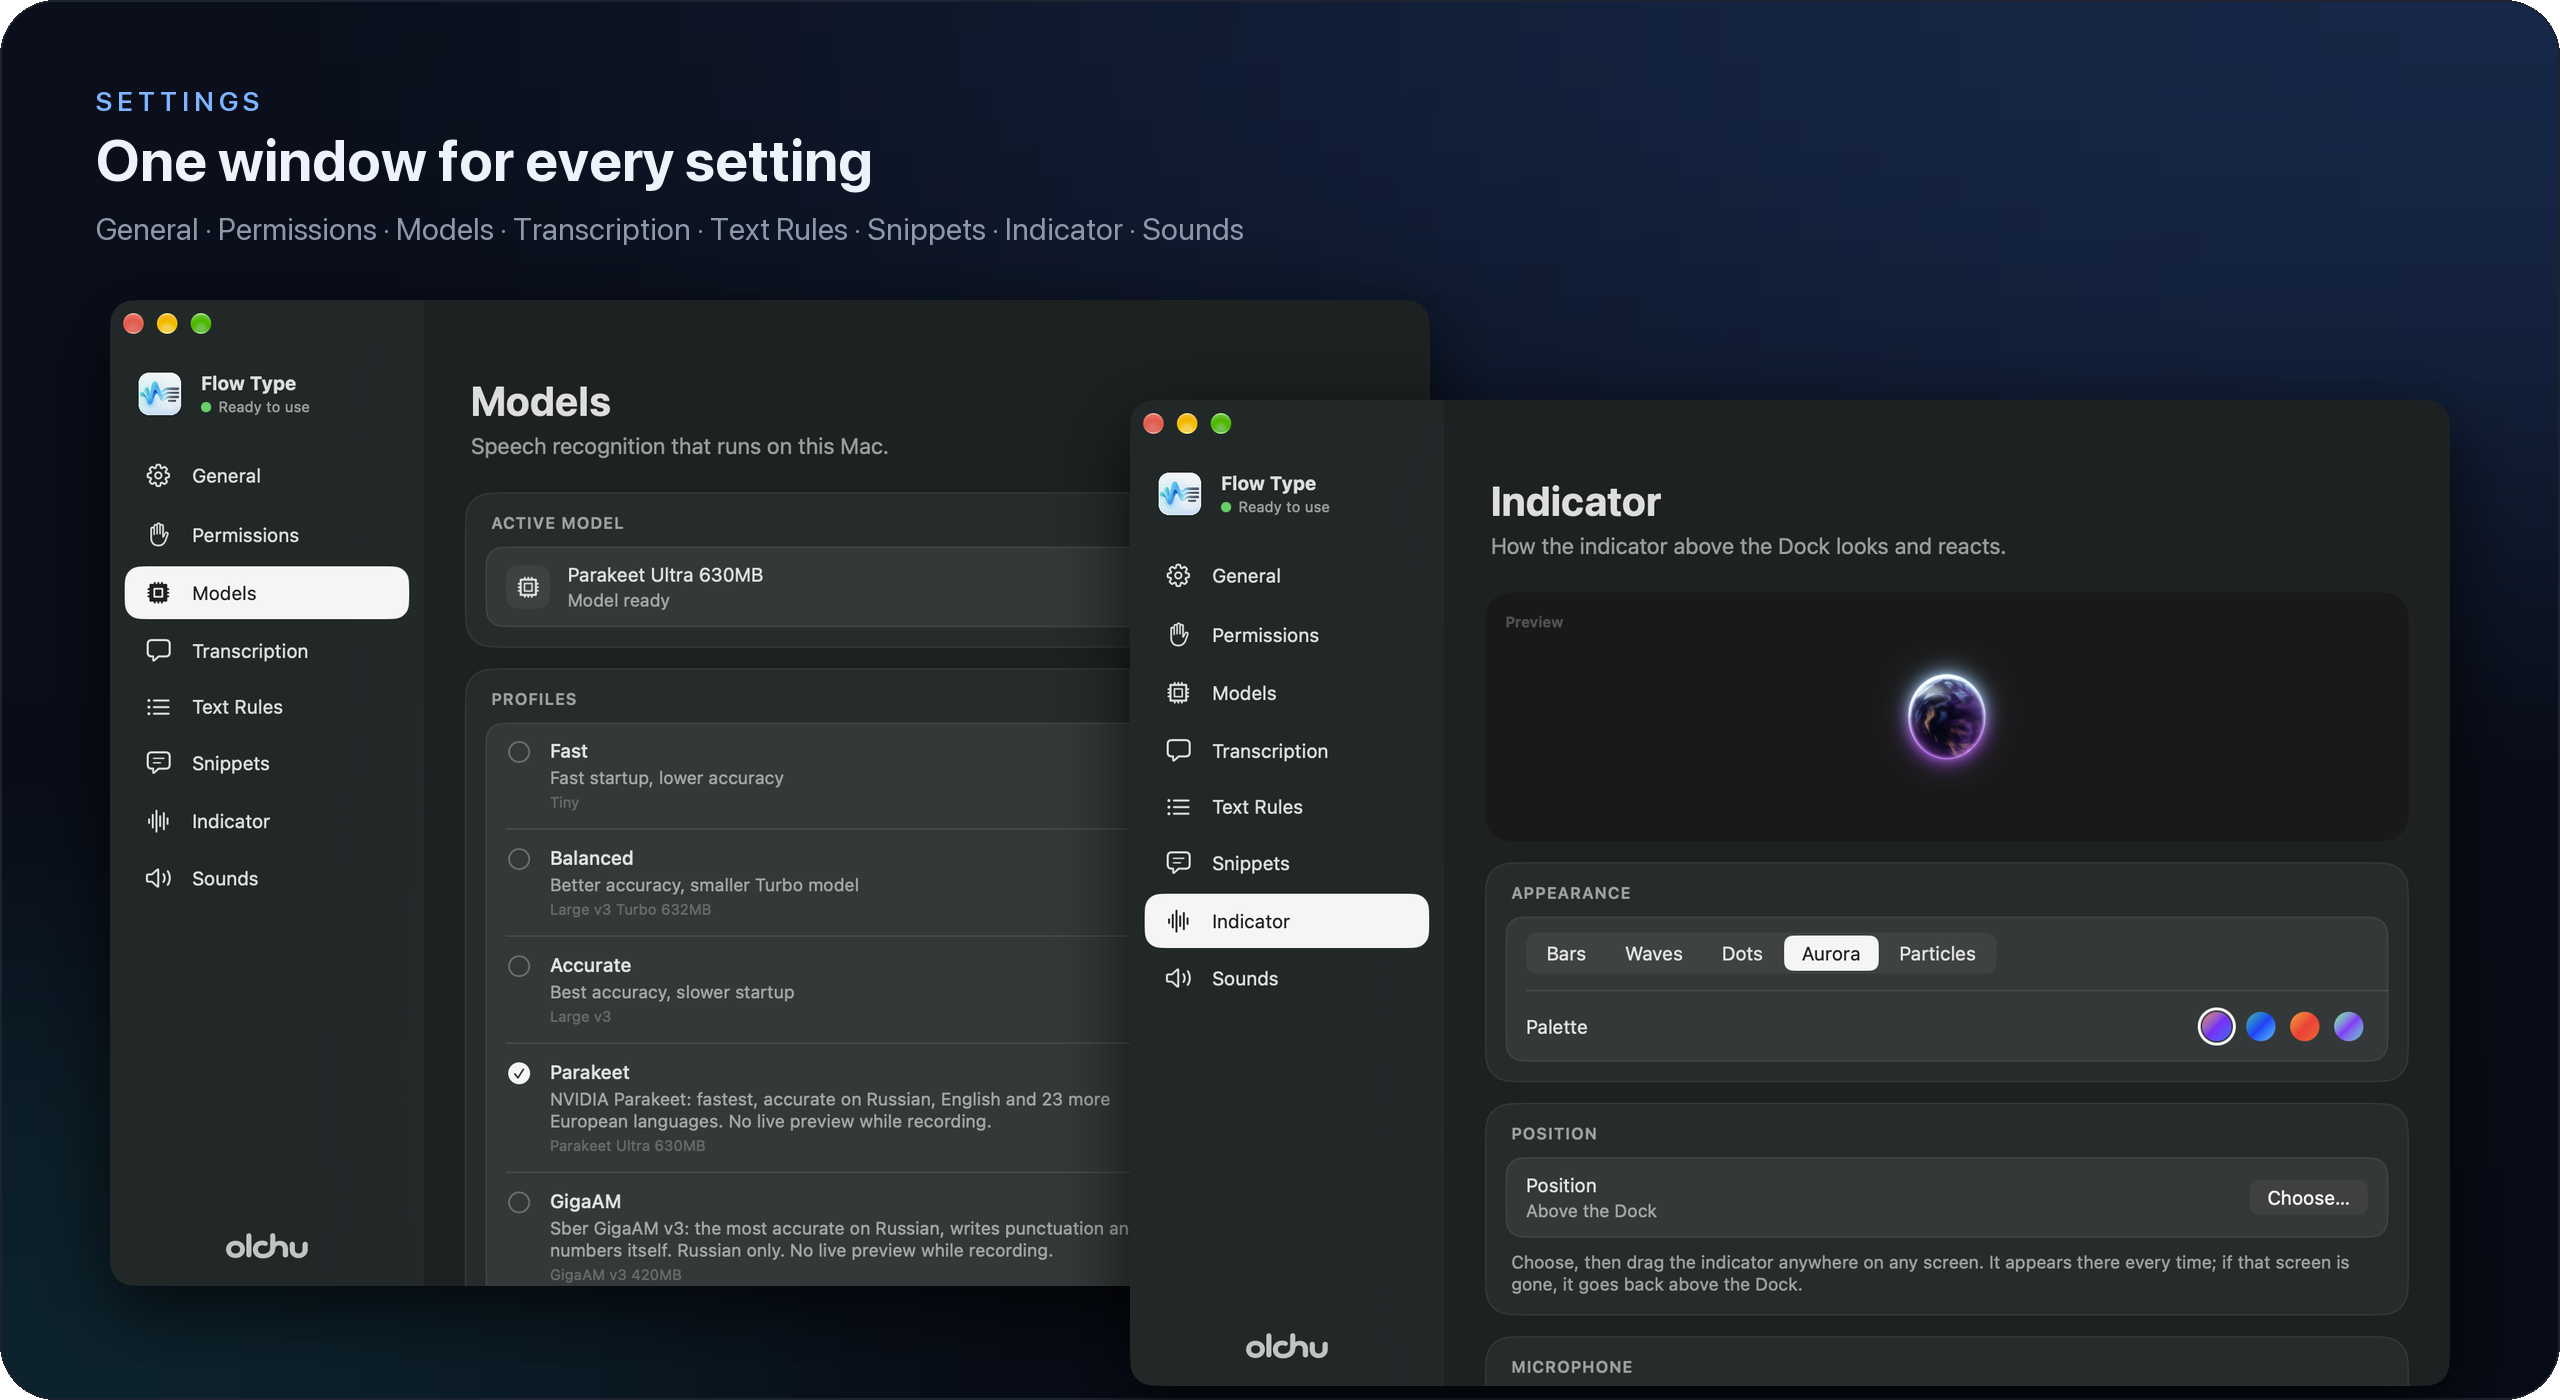
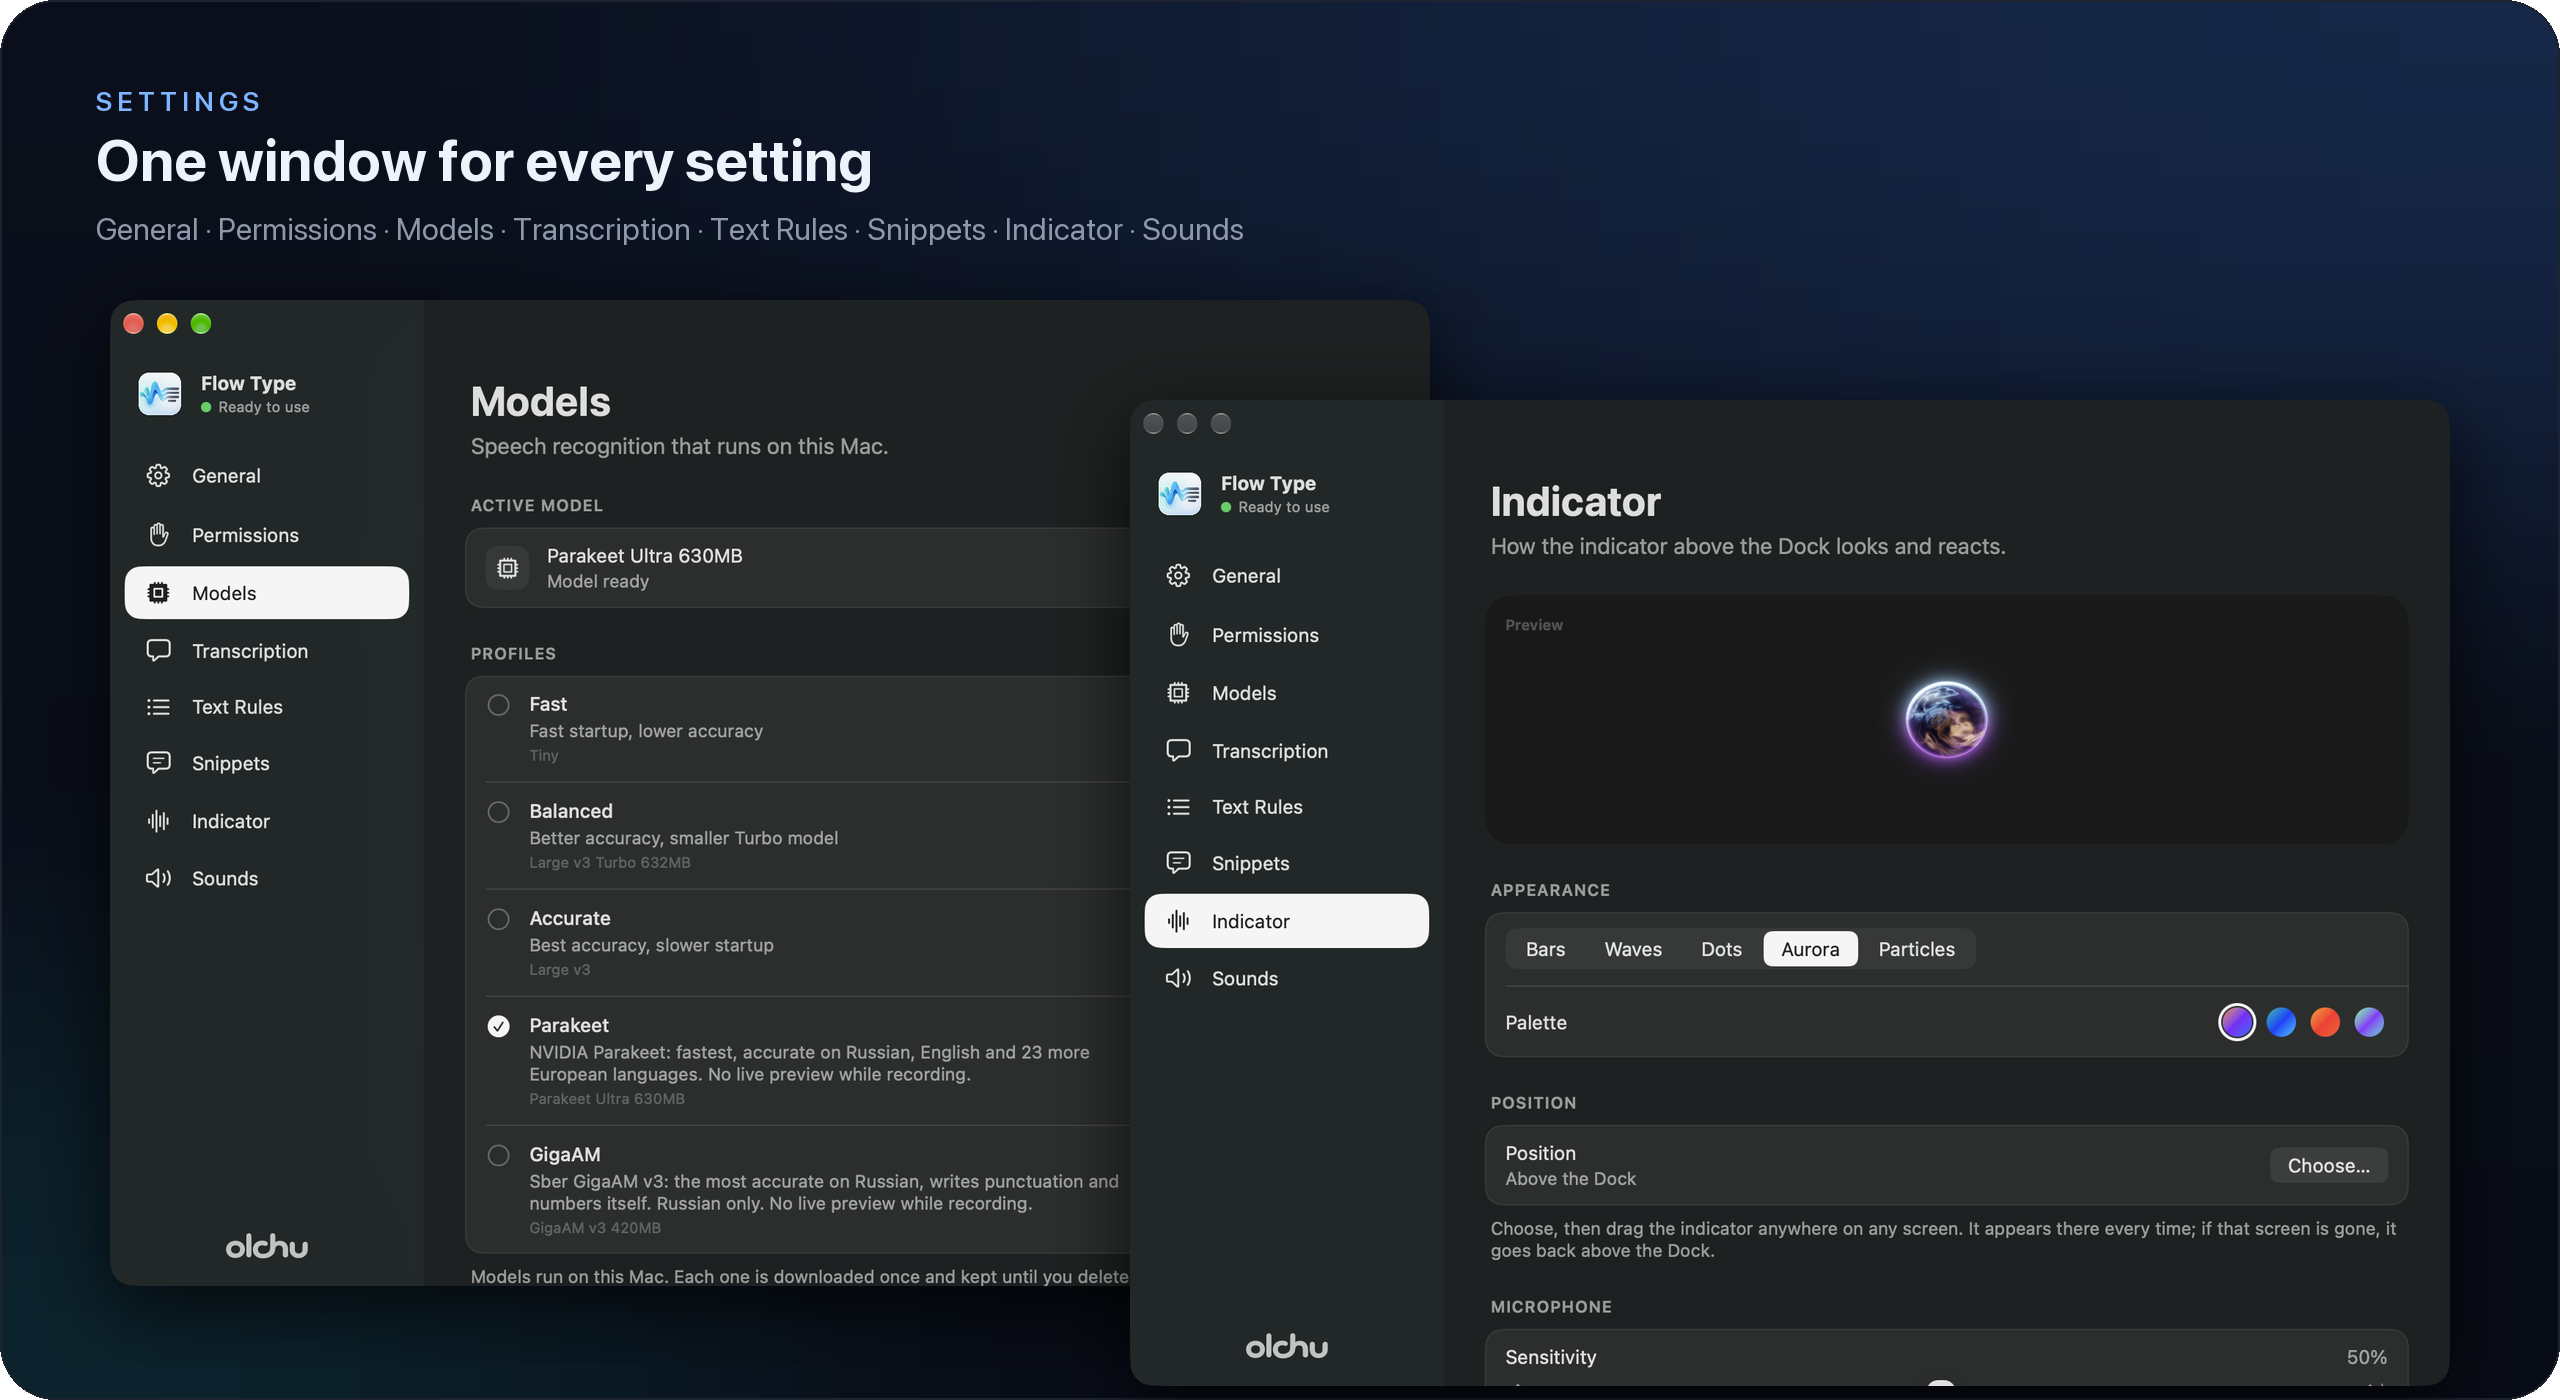
Show each settings section as one card and open the window without a text field in focus

diff --git a/FlowType/UI/Settings/SettingsDesign.swift b/FlowType/UI/Settings/SettingsDesign.swift
@@ -3,16 +3,15 @@ import SwiftUI
 
 /// Colours of the settings window: monochrome, graphite on white in the
 /// light appearance and white on graphite in the dark one, with the cards a
-/// step lighter than the page in both.
+/// step lighter than the page in both. Sections are one card each, never a
+/// card inside a card.
 enum SettingsStyle {
     /// Switches, sliders, prominent buttons, the selected segment and the
     /// selected sidebar row.
     static let ink = dynamic(light: NSColor(white: 0.17, alpha: 1), dark: NSColor(white: 0.96, alpha: 1))
     /// Text and knobs on `ink`.
     static let onInk = dynamic(light: .white, dark: NSColor(white: 0.13, alpha: 1))
-    /// A section: the title, the card of rows and the footer.
-    static let section = dynamic(light: NSColor(white: 0.975, alpha: 1), dark: NSColor(white: 1, alpha: 0.045))
-    /// The card of rows inside a section.
+    /// The card of a section's rows.
     static let card = dynamic(light: .white, dark: NSColor(white: 1, alpha: 0.06))
     static let hairline = Color.primary.opacity(0.07)
     /// Behind small things on a card: key caps, badges, icons, segments.
@@ -62,7 +61,7 @@ struct SettingsPage<Content: View>: View {
 
     var body: some View {
         ScrollView {
-            VStack(alignment: .leading, spacing: 14) {
+            VStack(alignment: .leading, spacing: 24) {
                 VStack(alignment: .leading, spacing: 5) {
                     Text(pane.title)
                         .font(.system(size: 28, weight: .bold))
@@ -72,7 +71,6 @@ struct SettingsPage<Content: View>: View {
                         .foregroundStyle(.secondary)
                 }
                 .padding(.horizontal, 4)
-                .padding(.bottom, 8)
 
                 content
             }
@@ -84,7 +82,8 @@ struct SettingsPage<Content: View>: View {
     }
 }
 
-/// A titled card of rows, with an optional note under it. Each row gets the
+/// A title, a card of rows and an optional note under it, the title and
+/// the note on the page itself. Each row gets the
 /// row padding and a line above it, except the first.
 struct SettingsSection<Content: View>: View {
     let title: String
@@ -98,7 +97,7 @@ struct SettingsSection<Content: View>: View {
     }
 
     var body: some View {
-        VStack(alignment: .leading, spacing: 9) {
+        VStack(alignment: .leading, spacing: 8) {
             Text(title.uppercased())
                 .font(.system(size: 11, weight: .semibold))
                 .tracking(0.6)
@@ -123,12 +122,6 @@ struct SettingsSection<Content: View>: View {
                     .fixedSize(horizontal: false, vertical: true)
                     .padding(.horizontal, 4)
             }
-        }
-        .padding(14)
-        .background(SettingsStyle.section, in: .rect(cornerRadius: 18, style: .continuous))
-        .overlay {
-            RoundedRectangle(cornerRadius: 18, style: .continuous)
-                .strokeBorder(SettingsStyle.hairline)
         }
     }
 

diff --git a/FlowType/UI/Settings/SettingsView.swift b/FlowType/UI/Settings/SettingsView.swift
@@ -81,6 +81,7 @@ enum SettingsPane: String, CaseIterable, Identifiable {
 struct SettingsView: View {
     @EnvironmentObject private var appState: AppState
     @State private var selection = LaunchArguments.settingsPane ?? .general
+    @FocusState private var isSidebarFocused: Bool
 
     var body: some View {
         NavigationSplitView {
@@ -95,6 +96,12 @@ struct SettingsView: View {
         .onAppear {
             appState.refreshPermissions()
             appState.refreshLaunchAtLoginStatus()
+            // The window opens with focus on the sidebar. AppKit puts it in
+            // the first text field of the pane once the window is shown, so
+            // this waits for that.
+            DispatchQueue.main.async {
+                isSidebarFocused = true
+            }
         }
         // Permissions are granted in System Settings; pick them up on return.
         .onReceive(NotificationCenter.default.publisher(for: NSApplication.didBecomeActiveNotification)) { _ in
@@ -117,6 +124,7 @@ struct SettingsView: View {
             // the selected row shows where focus is.
             .focusable()
             .focusEffectDisabled()
+            .focused($isSidebarFocused)
             .onMoveCommand { direction in
                 let panes = SettingsPane.allCases
                 guard let index = panes.firstIndex(of: selection) else { return }
